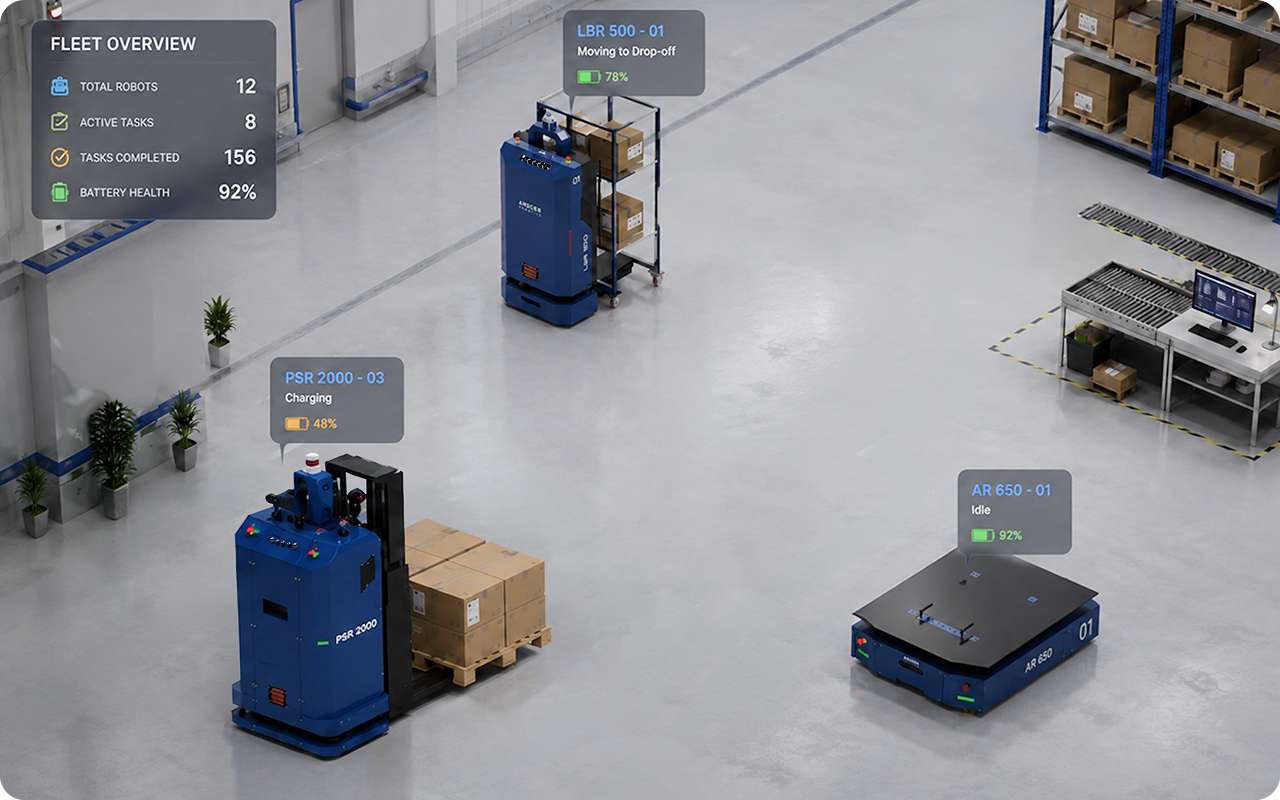
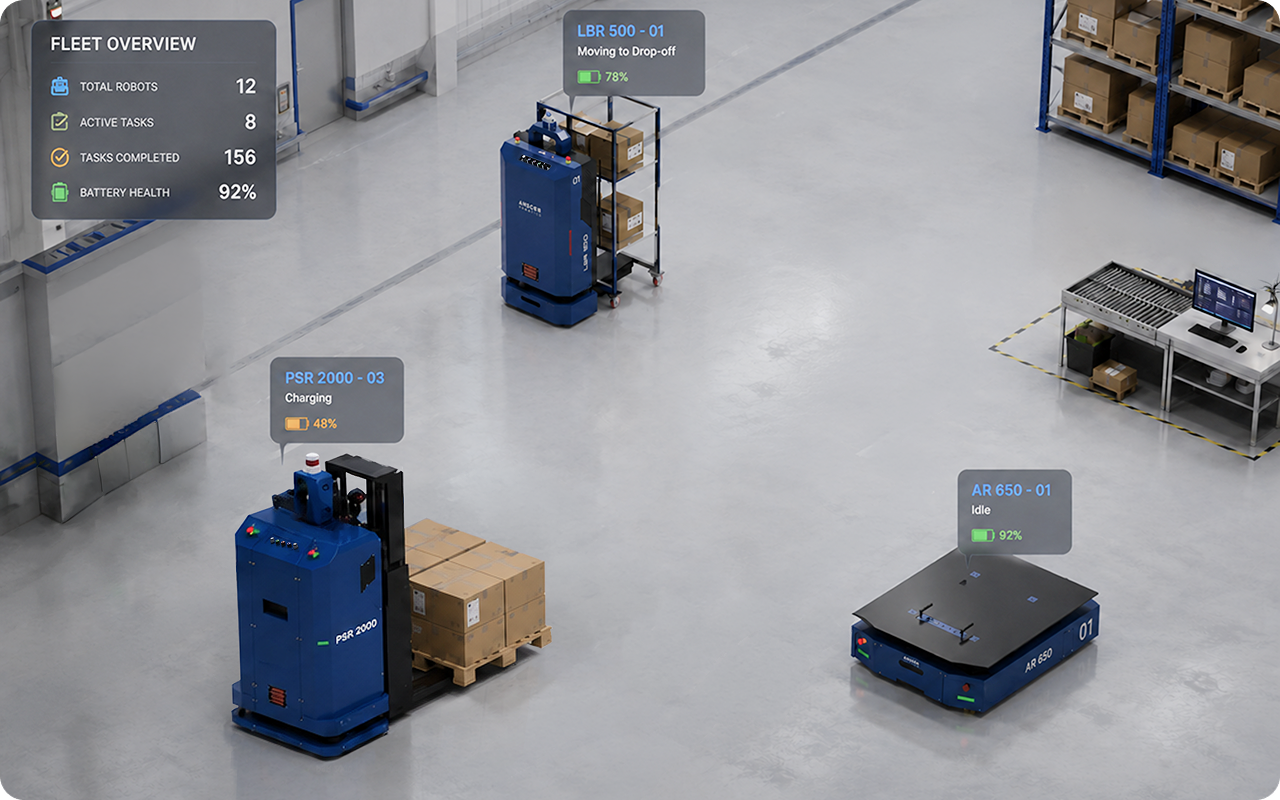
application section image and content changes and UI improvements

diff --git a/app/components/product-detail/product-detail-data.ts b/app/components/product-detail/product-detail-data.ts
@@ -1156,7 +1156,33 @@ export const productDetails: Record<string, ProductDetailData> = {
         image: "individual-product/ar-250/ar-250-adf-8.png",
       },
     ],
-    useCases: psrUseCases,
+    useCases: [
+       {
+        title: "Heavy Payload Pallet Transport",
+        copy: "Safely moves large and heavy palletized loads across facilities.",
+        image: "individual-product/psr-2000/applications/image-1.jpg",
+      },
+       {
+        title: "Pallet Stacking in Buffer Zones",
+        copy: "Organizes pallets efficiently in temporary storage and staging areas.",
+        image: "individual-product/psr-2000/applications/image-2.jpg",
+      },
+       {
+        title: "Raw Material Handling",
+        copy: "Automates the movement of raw materials to production or storage locations.",
+        image: "individual-product/psr-2000/applications/image-3.jpg",
+      },
+       {
+        title: "Finished Goods Stacking",
+        copy: "Supports systematic stacking and handling of completed products.",
+        image: "individual-product/psr-2000/applications/image-4.jpg",
+      },
+       {
+        title: "Multi-Level Racking",
+        copy: "Facilitates pallet placement and retrieval across multiple rack levels.",
+        image: "individual-product/psr-2000/applications/image-5.jpg",
+      },
+    ],
     faqs: [
       {
         question: "What types of pallets can the PSR 2000 handle?",
@@ -1546,7 +1572,28 @@ export const productDetails: Record<string, ProductDetailData> = {
         image: "individual-product/ar-250/ar-250-adf-8.png",
       },
     ],
-    useCases: psrUseCases,
+    useCases: [
+      {
+        title: "Dock to Storage Movement",
+        copy: "Transfers incoming pallets from receiving docks to designated storage areas automatically.",
+        image: "individual-product/psr-g2g/applications/image-1.jpg",
+      },
+      {
+        title: "Storage to Dispatch Staging",
+        copy: "Moves stored goods to dispatch zones for faster order fulfillment.",
+        image: "individual-product/psr-g2g/applications/image-2.jpg",
+      },
+      {
+        title: "Cross-Docking Operations",
+        copy: "Supports direct movement of goods between inbound and outbound areas with minimal storage time.",
+        image: "individual-product/psr-g2g/applications/image-3.jpg",
+      },
+      {
+        title: "Line-Side Pallet Feeding",
+        copy: "Supplies production lines with pallets and materials exactly when needed.",
+        image: "individual-product/psr-g2g/applications/image-4.jpg",
+      },
+    ],
     faqs: [
       {
         question:

diff --git a/app/components/series/SeriesInteractive.tsx b/app/components/series/SeriesInteractive.tsx
@@ -149,8 +149,8 @@ export function SeriesApplicationsCarousel({ data }: { data: SeriesPageData }) {
               key={application.title}
               className={cn(
                 data.slug === "agv-series"
-                  ? "!w-[390px] md:!w-[clamp(290px,26.4vw,416px)] lg:!w-[416px]"
-                  : "!w-[min(390px,82vw)]",
+                  ? "!w-[400px] md:!w-[clamp(290px,26.4vw,416px)] lg:!w-[416px]"
+                  : "!w-[min(400px,82vw)]",
               )}
             >
               <article className="relative h-[460px] w-full overflow-hidden rounded-lg bg-[#dfe7ee]">
@@ -165,10 +165,10 @@ export function SeriesApplicationsCarousel({ data }: { data: SeriesPageData }) {
                 ) : null}
                 <div className="absolute inset-0 bg-[linear-gradient(180deg,rgba(1,31,64,0)_30%,rgba(1,31,64,.82)_100%)]" />
                 <div className="absolute inset-x-0 bottom-0 p-6 text-white">
-                  <h3 className="text-xl font-extrabold leading-tight md:text-2xl">
+                  <h3 className="text-xl font-bold leading-tight ">
                     {application.title}
                   </h3>
-                  <p className="mt-2 text-sm leading-5 text-white/88 md:text-base md:leading-6">
+                  <p className="mt-2 text-sm leading-5 text-white/88 md:text-base md:leading-6 tracking-[-1%]">
                     {application.copy}
                   </p>
                 </div>

diff --git a/app/components/series/series-data.ts b/app/components/series/series-data.ts
@@ -282,11 +282,6 @@ export const seriesPages: Record<string, SeriesPageData> = {
         image: "Frame-427322849_1.jpg",
       },
       {
-        title: "Storage/Rack to Outbound",
-        copy: "Retrieves stored or racked goods and transports them to outbound dispatch staging.",
-        image: "Frame-427322852.jpg",
-      },
-      {
         title: "Small Load & Cart Transport",
         copy: "Moves lightweight individual loads or small carts for frequent internal transport.",
         image: "carton-transfer-latest.jpg",
@@ -300,7 +295,12 @@ export const seriesPages: Record<string, SeriesPageData> = {
         title: "Staging/Buffer Holding",
         copy: "Temporarily holds palletized or finished goods before the next movement stage.",
         image: "Frame-427322855.jpg",
-      }
+      },
+      {
+        title: "Storage/Rack to Outbound",
+        copy: "Retrieves stored or racked goods and transports them to outbound dispatch staging.",
+        image: "Frame-427322852.jpg",
+      },
     ],
     products: [
       {
